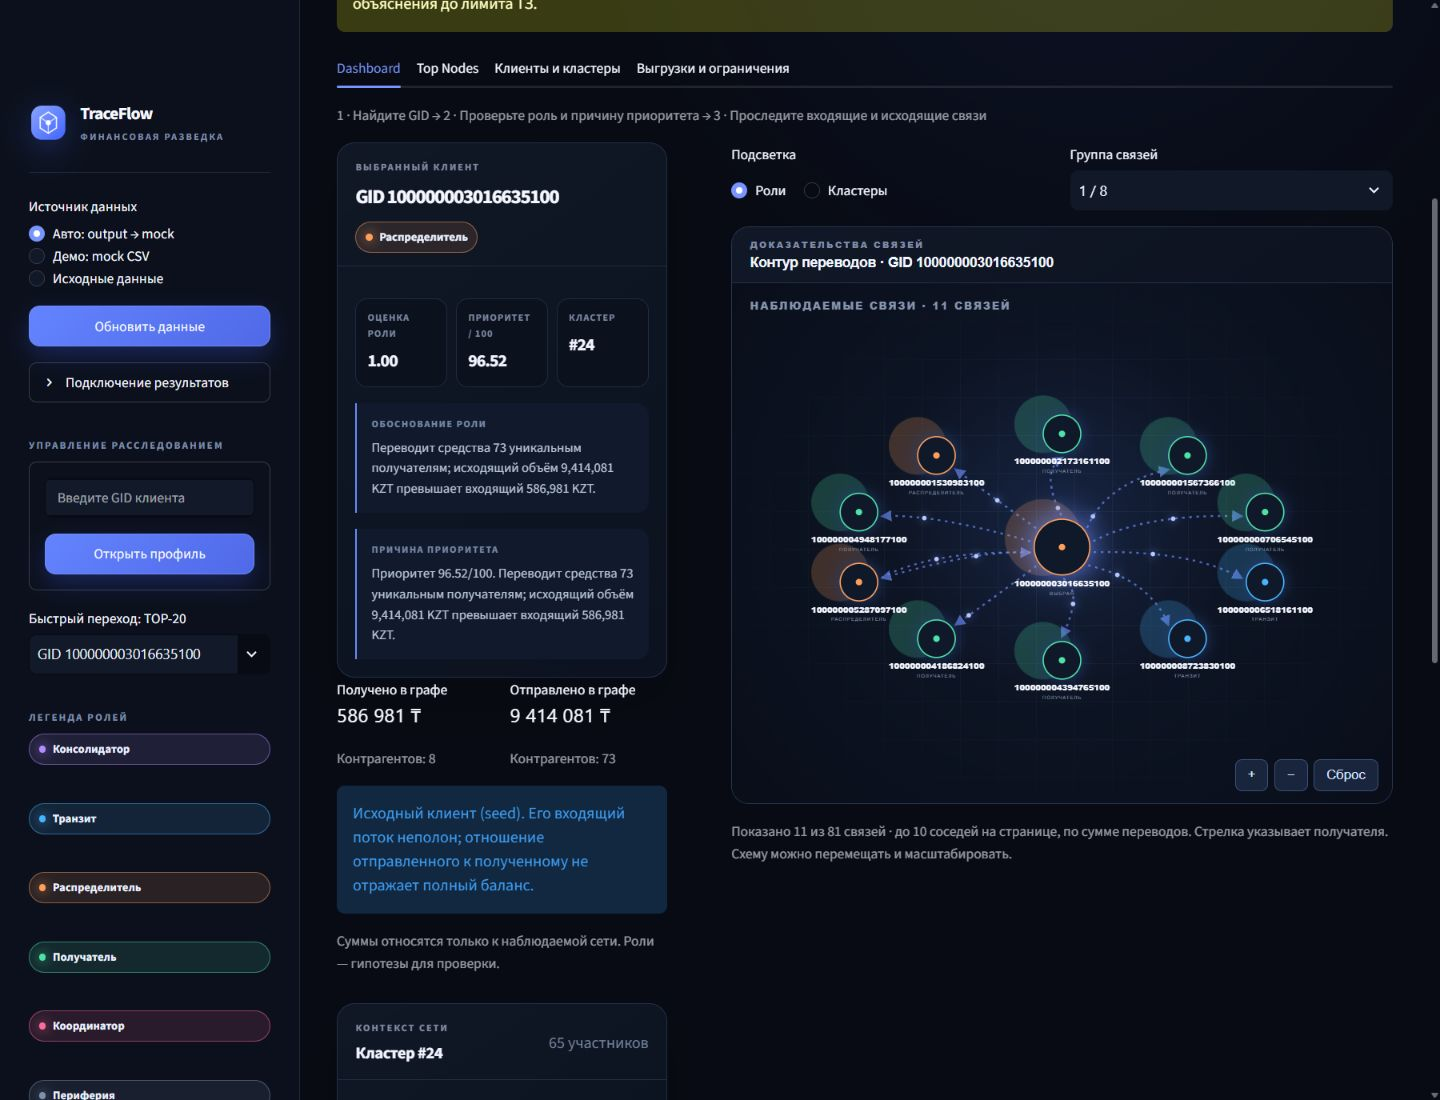
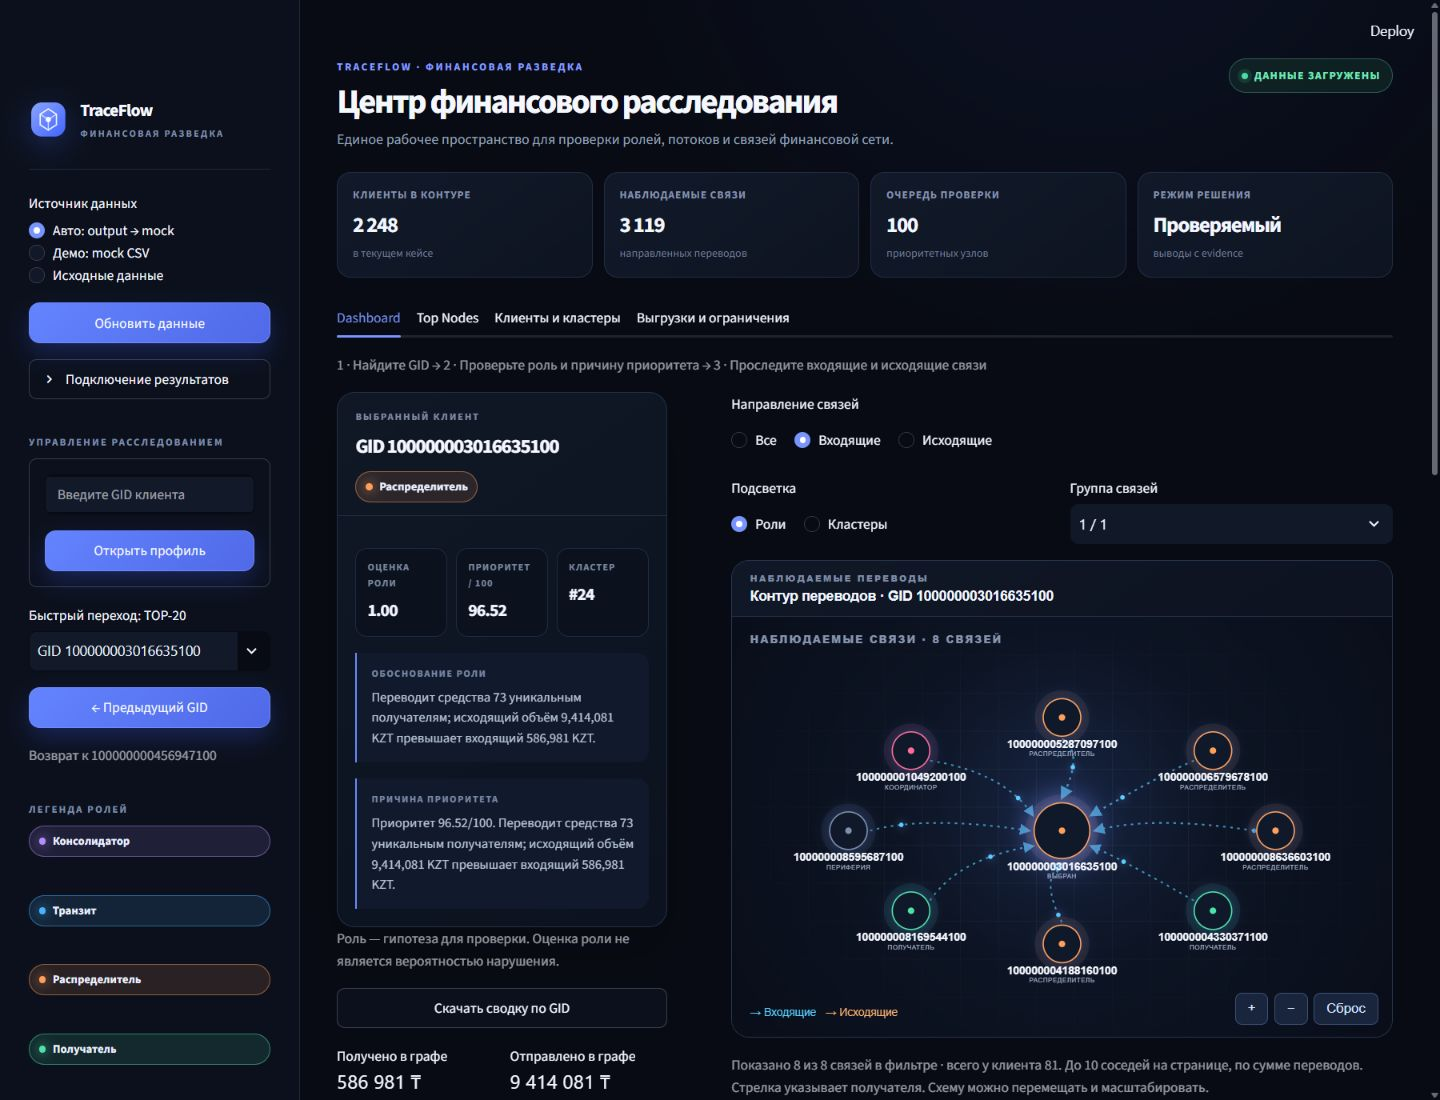
docs(demo): refine one-minute UI walkthrough and refresh screenshots

diff --git a/docs/demo.md b/docs/demo.md
@@ -10,9 +10,12 @@
 .\.venv\Scripts\python.exe -m unittest discover -s tests -v
 ```
 
-На текущем рабочем окружении полный прогон прошёл: **35 тестов**, из них **20 UI**.
+На текущем рабочем окружении полный прогон прошёл: **43 теста**, из них **28 UI**.
 Проверены загрузка, каждый mock GID, реальный GID, неизвестный GID, изолированный
 клиент, seed/depth=4, переключение источников и точность длинных идентификаторов.
+В живом браузере проверены переход из Top Nodes, фильтр входящих, переход к
+контрагенту и возврат. На ширине 390 px проверены открытие меню поиска и поиск
+реального изолированного GID. Снимки ниже сделаны при ширине 1440 px.
 
 На чистой машине создайте `.venv`, установите `requirements-ui.txt`. Для полного
 прогона аналитики дополнительно нужны `networkx` и `scipy`; SciPy используется
@@ -52,14 +55,34 @@ Top Nodes и 21 направленную связь, включая отдель
 
 | Время | Действие |
 | --- | --- |
-| 0–10 с | Ввести GID в поиск слева, нажать «Открыть профиль». |
-| 10–25 с | На Dashboard назвать роль, кластер, оценку и прочитать причину приоритета. |
-| 25–45 с | Показать стрелки: кто отправляет выбранному клиенту и кому отправляет он. |
-| 45–60 с | Переключить подсветку на кластеры; при необходимости раскрыть все связи. |
+| 0–10 с | Ввести GID в поиск слева или выбрать его в Top Nodes → «Открыть GID». |
+| 10–25 с | На Dashboard назвать роль как гипотезу, кластер и прочитать причину приоритета. |
+| 25–40 с | Включить «Входящие», затем «Исходящие». Голубая стрелка — вход, оранжевая — выход; стрелка указывает получателя. |
+| 40–50 с | Выбрать «Связанный GID» → «Продолжить по связи». Вернуться кнопкой «← Предыдущий GID». |
+| 50–60 с | Нажать «Скачать сводку по GID». Назвать ограничения выбранного клиента. |
 
 Для быстрого просмотра приоритетов есть вкладка **Top Nodes** и выбор TOP-20 слева.
 Граф показывает до 10 соседей на странице; остальные доступны через «Группа связей».
-Счётчик всегда показывает число видимых и общее число связей.
+Счётчик показывает число видимых связей, число в фильтре и общее число связей клиента.
+Сводка включает все связи клиента независимо от фильтра и страницы графа.
+В Top Nodes переход доступен ко всем строкам очереди, включая позиции за пределами TOP-20.
+Порядок rank и значения приоритета сохраняются как переданы аналитикой.
+
+### Реплика для защиты
+
+«TraceFlow помогает проверить гипотезу о клиенте по наблюдаемым переводам.
+Ввожу GID: здесь роль и её основание, отдельно — причина включения в очередь.
+На графе видно направление денег; я могу перейти к контрагенту и вернуться.
+Для seed вход неполон, а на четвёртом колене дальнейший путь неизвестен.
+Сохраняю сводку со всеми связями и оговорками для дальнейшей проверки».
+
+### Перед выходом к жюри
+
+1. Открыть приложение и нажать «Обновить данные». Проверить источник и количество клиентов.
+2. Раскрыть «Качество выгрузки» в боковой панели, передать замечания владельцу аналитики.
+3. Проверить три реальных GID ниже, неизвестный GID и переключение страниц связей.
+4. Проверить Top Nodes → Dashboard → контрагент → возврат и скачивание сводки.
+5. Оставить Dashboard на первом реальном GID. Если показывается mock, прямо назвать его синтетическим.
 
 ## Репетиция на трёх GID
 
@@ -90,6 +113,14 @@ Top Nodes и 21 направленную связь, включая отдель
 - У 444 строк evidence превышает 200 символов; максимум 227. UI показывает полный
   текст и предупреждение. Сокращение объяснений должно выполняться в экспорте.
 - SciPy отсутствует в текущем общем списке зависимостей, но требуется для PageRank.
+- Проверочный пример для команды аналитики: `classify` с `in_amount=100000`,
+  `out_amount=1000000`, `unique_senders=2`, `unique_receivers=1`, `in_count=2`,
+  `out_count=1`, `depth=2` возвращает transit с объяснением «100% входящего объёма».
+  Фактическое отношение — 1000%; правило обрезает отношение до единицы.
+  UI не исправляет и не заменяет это объяснение самостоятельно.
+
+Изменения этой поставки находятся в `dev/ui`. Интегратор должен включить ветку
+в общую ветку сдачи, затем проверить чистый запуск. UI не меняет код `src/`.
 
 Прошедшие тесты подтверждают работу реализации, но не отменяют эти расхождения
 с условиями сдачи. До финала команда аналитики должна исправить контракт и

diff --git a/README.md b/README.md
@@ -55,14 +55,16 @@ python -m streamlit run ui/app.py
 
 - **Исходные данные:** доступны все клиенты и переводы; роли, скоры и кластеры не выдумываются.
 - **Результаты пайплайна:** карточки, evidence, кластеры, TOP-20 и скачивание переданных CSV.
-- **Дизайн-кейс:** явно маркированный вымышленный пример, включается отдельно; не сдаётся как аналитика.
+- **Демо: mock CSV:** явно маркированный вымышленный пример. Автоматически открывается при полном отсутствии результатов; также включается вручную. Частичная или повреждённая выгрузка не подменяется mock.
 
 ## Что умеет UI
 
-- Поиск любого GID, быстрый переход к TOP-20, переход к контрагенту.
+- Поиск любого GID, быстрый переход к TOP-20, переход из полной очереди и к контрагенту прямо под графом. Возврат к предыдущему GID.
 - Схема входящих и исходящих связей: стрелки, подсветка ролей или кластеров,
   масштабирование и перетаскивание. До 10 соседей на странице, остальные доступны
   переключателем. Показанное и полное число связей подписаны.
+- Фильтр входящих и исходящих связей; голубые входящие и оранжевые исходящие стрелки.
+- Скачивание сводки по GID: переданные роль, приоритет, объяснения, все связи и оговорки seed/depth=4.
 - Полная таблица связей с суммами и числом переводов, скачивание CSV.
 - Дневные входящие/исходящие суммы и количества транзакций.
 - Каталог всех клиентов с фильтрами по роли и кластеру.
@@ -78,10 +80,15 @@ UI только отображает модель команды. Суммы и 
 python -m unittest discover -s tests -v
 ```
 
+Только UI: `python -m unittest discover -s tests -p test_ui.py -v`.
 Проверяются GID int64, некорректные скоры, поиск, изолированный клиент, переход по связи,
-разделение дизайна и реальных данных, подключение CSV и восстановление порядка TOP.
+возврат к предыдущему GID, фильтры направлений, сводка, разделение mock и реальных данных,
+повреждённые связи, подключение CSV и сохранение переданного аналитикой порядка rank.
+Полный набор тестов требует также зависимостей аналитики, включая NetworkX и SciPy.
 
 ## Сценарий демонстрации, 5 минут
+
+[Минутный сценарий, три реальных GID и снимки интерфейса](docs/demo.md).
 
 1. Команда запускает свой пайплайн и получает три CSV. Обновить UI, показать размер сети.
 2. Открыть первого клиента из TOP-20. Объяснить роль по evidence и конкретным метрикам команды.
@@ -103,10 +110,11 @@ flowchart LR
 
 ## Ограничения и готовность к сдаче
 
-В текущей версии репозитория аналитический код — исходный `starter.py`, который
-пишет пустые роли. Финальный пайплайн, формальные критерии ролей, рассчитанные
-2 248 строк и три итоговые выгрузки должны быть подключены командой перед сдачей.
-Этот README описывает воспроизводимый запуск **UI**, а не обещает готовый полный анализ.
+Аналитический пайплайн команды подключён через `output/`. UI показывает переданные
+результаты без пересчёта ролей, оценок и порядка rank. Замечания к формату доступны
+в боковой панели «Качество выгрузки». Найденные ограничения финальной интеграции
+перечислены в [документе демо](docs/demo.md#замечания-для-финальной-интеграции).
+Этот README описывает запуск UI; проверка качества аналитических правил принадлежит команде аналитики.
 
 Данные ограничены июлем 2026, внутрибанковскими переводами от 5 000 ₸ и обходом
 по исходящим до 4 колен. На границе графа отсутствие исходящих не доказывает удержание
